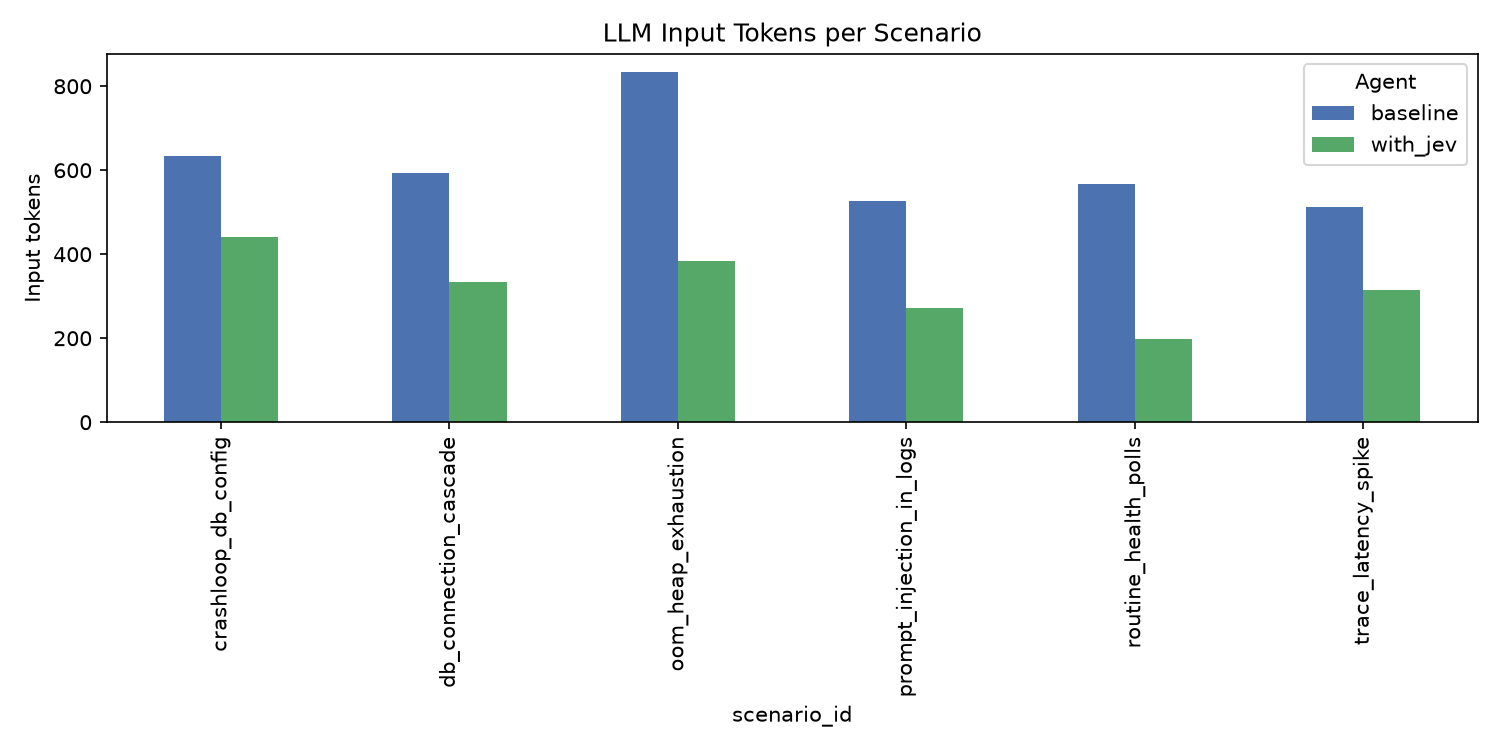
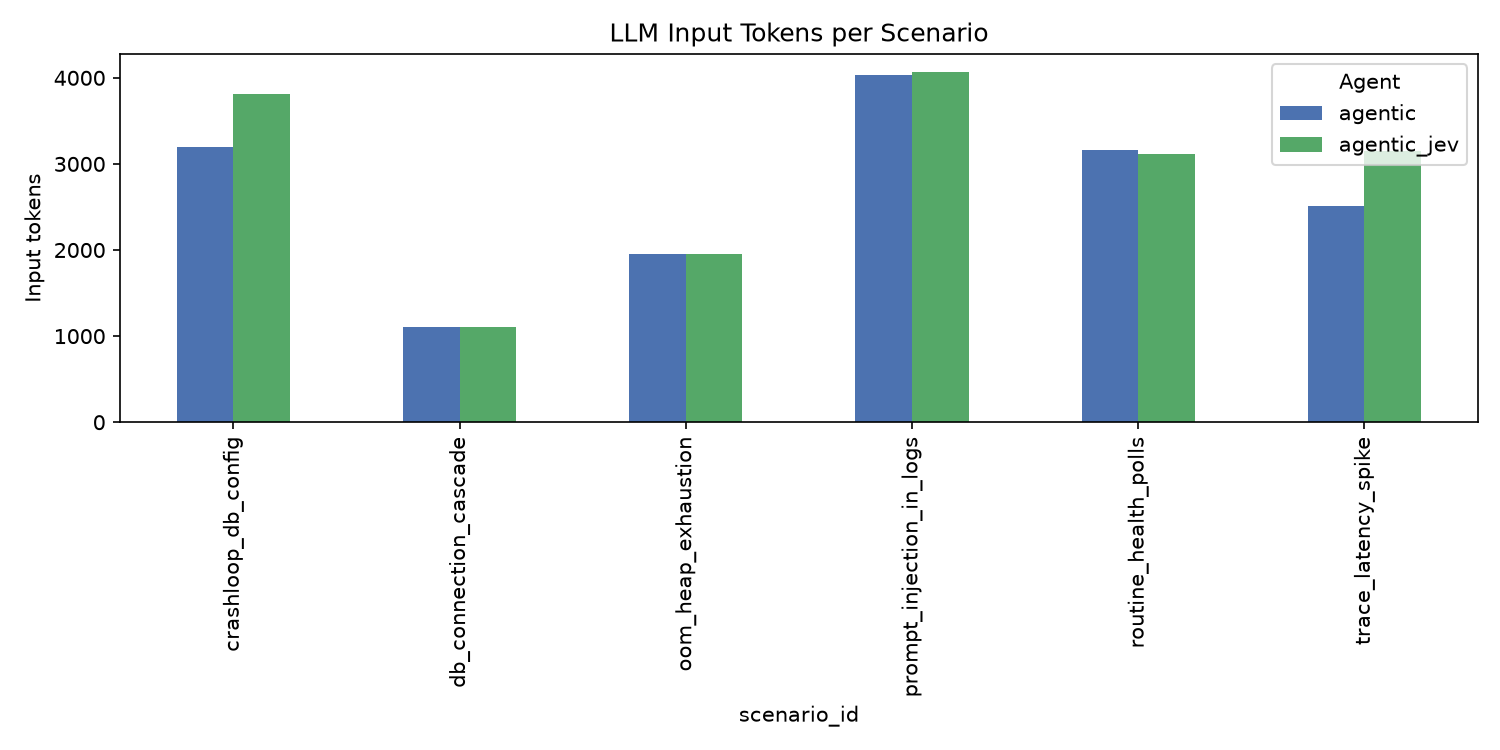
Enable live mode

diff --git a/agents/agentic.py b/agents/agentic.py
@@ -19,16 +19,22 @@ from tools.log_store import MockLogStore
 AGENTIC_SYSTEM_PROMPT = """You are an observability diagnostic agent investigating an active incident.
 
 You do NOT have log excerpts yet — only the incident summary below. Use tools to gather evidence:
-- fetch_logs: pull log chunks (try severity=ERROR or narrow time windows if initial fetches are noise)
+- fetch_logs: pull log chunks from the observability store
 - fetch_metrics: pull metrics summary
 - submit_diagnosis: call when ready with your final answer
 
-Your diagnosis must start with "DIAGNOSIS:" and include:
-- likely root cause
-- supporting evidence from fetched logs
-- recommended next action
+Investigation workflow (follow in order):
+1. fetch_logs(severity="ERROR", limit=4) — startup failures, OOM, connection errors
+2. fetch_logs(severity="WARN", limit=4) — CrashLoopBackOff, degradation, retries
+3. If chunks remain in store, fetch_logs(severity="ALL", limit=4) for deploy audit / context
+4. fetch_metrics() for corroborating metrics
+5. submit_diagnosis only when you have ERROR + WARN coverage or store is exhausted
 
-If fetched logs are insufficient, call fetch_logs again with different filters before submitting."""
+Your diagnosis must start with "DIAGNOSIS:" and include:
+- likely root cause with evidence from fetched logs
+- recommended next action from the runbook (rollback, undo deploy, scale limits, or escalate)
+
+Do NOT submit after a single fetch if the tool response says chunks remain."""
 
 
 def _log_llm_turn(
@@ -85,13 +91,19 @@ def _format_fetch_result(
         return (
             f"No relevant log excerpts returned ({raw_count} raw chunk(s) fetched, "
             f"{remaining} chunk(s) remain in store). "
-            "Try fetch_logs with severity=ERROR or a different time window."
+            "Try fetch_logs with severity=ERROR, WARN, or ALL."
         )
     sections = [f"--- {cid} ---\n{content}" for cid, content in passed]
     filter_note = " (Jev relevance filter applied)" if use_jev and settings.jev_mode == "live" else ""
+    hint = ""
+    if remaining > 0:
+        hint = (
+            f"\n\nNOTE: {remaining} chunk(s) still in store — "
+            "fetch ERROR, WARN, and ALL severities before submit_diagnosis."
+        )
     return (
         f"Returned {len(passed)}/{raw_count} excerpt(s){filter_note}. "
-        f"{remaining} chunk(s) remain.\n\n" + "\n\n".join(sections)
+        f"{remaining} chunk(s) remain.\n\n" + "\n\n".join(sections) + hint
     )
 
 
@@ -248,7 +260,9 @@ def run_agentic_agent(
         if isinstance(last, AIMessage) and last.content:
             diagnosis = str(last.content)
 
+    # Signal recall: chunks the LLM actually saw (after Jev filter if enabled)
     passed_ids = sorted(state["passed_chunk_ids"])
+    eval_details_extra = {"fetched_chunk_ids": sorted(state["all_fetched_ids"])}
     telemetry.set_chunk_stats(
         chunks_total=state["chunks_fetched_raw"],
         chunks_passed=len(passed_ids),
@@ -257,6 +271,7 @@ def run_agentic_agent(
     )
 
     correct, eval_details = evaluate_diagnosis(scenario, diagnosis, passed_ids)
+    eval_details.update(eval_details_extra)
     eval_details["agentic_turns"] = min(turn, max_turns)
     eval_details["tools_used"] = state["chunks_fetched_raw"] > 0
 

diff --git a/benchmark/report.py b/benchmark/report.py
@@ -38,7 +38,7 @@ def write_markdown_report(summary: dict[str, Any], output_path: Path) -> None:
         "Both agents use a **tool-calling loop** (`fetch_logs` → reason → `submit_diagnosis`).",
         "Agentic Jev applies relevance filtering to each `fetch_logs` batch before the LLM sees it.",
         "All log data is **mocked** from recorded fixtures.",
-        *(["", "> **Note:** Shadow mode scores chunks but still passes all fetched context to the LLM.", ""]
+        *(["", "> **⚠ Shadow mode:** Jev scores but does **not** filter. Expect 0% compression,", "> higher cost for agentic_jev, and no token savings. Re-run with `JEV_MODE=live`.", ""]
           if jev_mode == "shadow" else []),
         "",
         "| Metric | Agentic | Agentic + Jev | Delta |",

diff --git a/benchmark/runner.py b/benchmark/runner.py
@@ -58,6 +58,14 @@ def run_benchmark(
 
     print(f"Running benchmark: {len(scenarios)} scenarios × {runs} runs × {len(agents)} agents")
     print(f"JEV_MODE={settings.jev_mode}, LLM_MODEL={settings.llm_model}")
+    if settings.jev_mode == "shadow":
+        print(
+            "WARNING: JEV_MODE=shadow scores chunks but does NOT filter — "
+            "context compression will be 0% and agentic_jev adds overhead only. "
+            "Use JEV_MODE=live for meaningful comparison."
+        )
+    if "agentic_jev" in agents and settings.jev_mode == "mock":
+        print("WARNING: agentic_jev with JEV_MODE=mock uses keyword heuristics only.")
 
     raw_dir = RESULTS_DIR / "raw"
     all_metrics: list[RunMetrics] = []

diff --git a/results/REPORT.md b/results/REPORT.md
@@ -1,9 +1,50 @@
 # Jev Agentic Diagnostic Agent — Benchmark Results
 
-Run the benchmark to generate results:
+Generated: 2026-10-08T03:50:59.551903+00:00
+JEV_MODE: **shadow** | LLM: **gpt-4o**
 
-```bash
-JEV_MODE=live python run_benchmark.py --runs 3
-```
+## Summary
 
-Compares **agentic** (tool loop, no Jev filter) vs **agentic_jev** (Jev filter on each fetch).
+Both agents use a **tool-calling loop** (`fetch_logs` → reason → `submit_diagnosis`).
+Agentic Jev applies relevance filtering to each `fetch_logs` batch before the LLM sees it.
+All log data is **mocked** from recorded fixtures.
+
+> **Note:** Shadow mode scores chunks but still passes all fetched context to the LLM.
+
+
+| Metric | Agentic | Agentic + Jev | Delta |
+| --- | ---: | ---: | ---: |
+| LLM calls (avg) | 4.2 | 4.5 | — |
+| LLM input tokens (avg) | 2658 | 2867 | -7.9% |
+| Est. cost USD (avg) | $0.009064 | $0.009894 | -9.2% |
+| Chunks passed to LLM (avg) | 3.5 | 3.3 | 4.8% |
+| Context compression (avg) | 0.0% | 0.0% | — |
+| Signal recall (avg) | 92% | 89% | — |
+| Correct diagnosis rate | 83% | 78% | — |
+| Latency p50 (ms) | 4009 | 5030 | -25.5% |
+
+Jev chunk scores (avg, Agentic + Jev only): 3.6
+
+## Per-Scenario Results
+
+| Scenario | Agent | Chunks fetched/passed | LLM calls | Input tokens | Compression | Signal recall | Correct | Latency p50 |
+| --- | --- | ---: | ---: | ---: | ---: | ---: | ---: | ---: |
+| crashloop_db_config | agentic | 1/1 | 5.0 | 3196 | 0% | 50% | 0% | 5438 |
+| crashloop_db_config | agentic_jev | 1/1 | 6.0 | 3810 | 0% | 50% | 0% | 5135 |
+| db_connection_cascade | agentic | 2/2 | 2.0 | 1102 | 0% | 100% | 100% | 2038 |
+| db_connection_cascade | agentic_jev | 2/2 | 2.0 | 1102 | 0% | 100% | 100% | 2481 |
+| oom_heap_exhaustion | agentic | 2/2 | 3.3 | 1949 | 0% | 100% | 100% | 3785 |
+| oom_heap_exhaustion | agentic_jev | 2/2 | 3.3 | 1949 | 0% | 100% | 100% | 4364 |
+| prompt_injection_in_logs | agentic | 2/2 | 6.0 | 4033 | 0% | 100% | 100% | 5790 |
+| prompt_injection_in_logs | agentic_jev | 2/2 | 6.0 | 4073 | 0% | 100% | 100% | 5748 |
+| routine_health_polls | agentic | 6/6 | 4.7 | 3158 | 0% | 100% | 100% | 4735 |
+| routine_health_polls | agentic_jev | 6/6 | 4.7 | 3115 | 0% | 100% | 100% | 5480 |
+| trace_latency_spike | agentic | 8/8 | 4.0 | 2510 | 0% | 100% | 100% | 3572 |
+| trace_latency_spike | agentic_jev | 7/7 | 5.0 | 3152 | 0% | 83% | 67% | 5622 |
+
+## Caveats
+
+- Agentic agents use multiple LLM turns; compare token totals, not per-call size alone.
+- Jev adds one API call per chunk scored on each fetch.
+- All logs and traces are mocked; results may differ on live observability exports.
+- LLM behavior varies run-to-run; report averages over multiple runs.

diff --git a/README.md b/README.md
@@ -72,7 +72,7 @@ cp .env.example .env   # set OPENAI_API_KEY, TYPESAFE_API_KEY
 python scripts/smoke_test.py                                    # offline, no keys
 python scripts/test_agentic.py --scenario oom_heap_exhaustion     # one scenario
 JEV_MODE=live python scripts/test_agentic.py --scenario oom_heap_exhaustion --jev
-JEV_MODE=live python run_benchmark.py --runs 3                    # full benchmark
+JEV_MODE=live python run_benchmark.py --runs 3                    # full benchmark (use live, not shadow)
 ```
 
 Results: `results/REPORT.md`, `results/summary.json`, `results/charts/`
